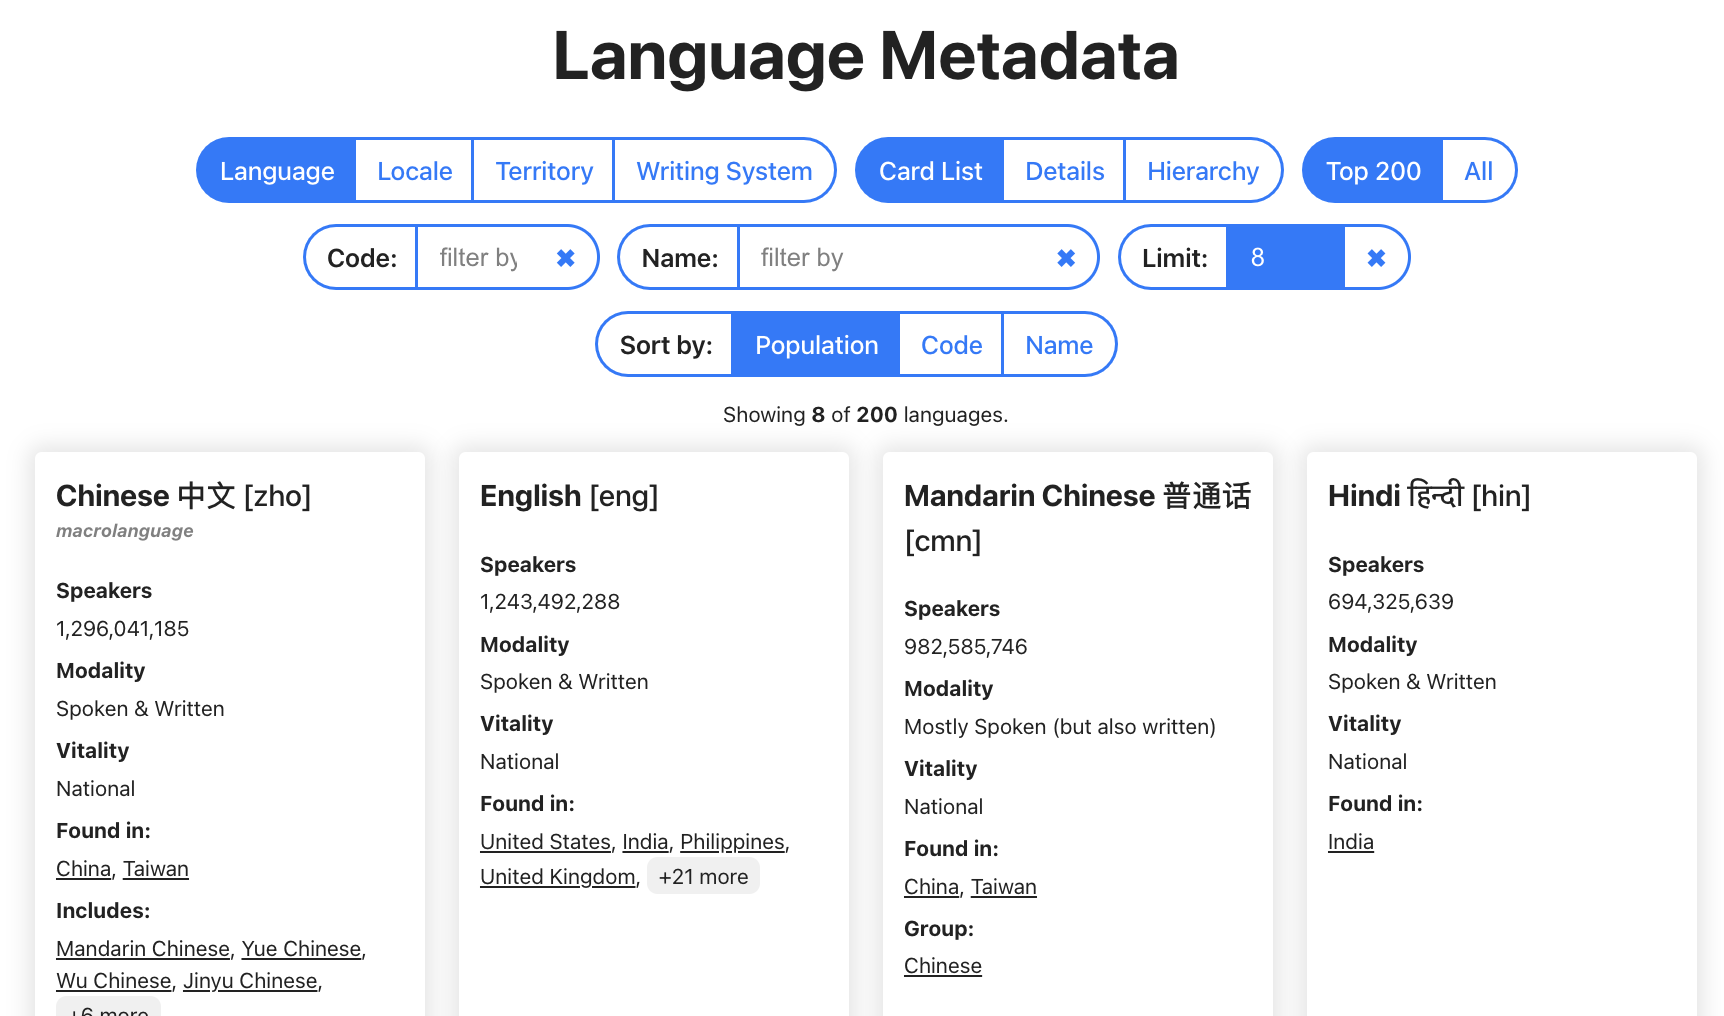
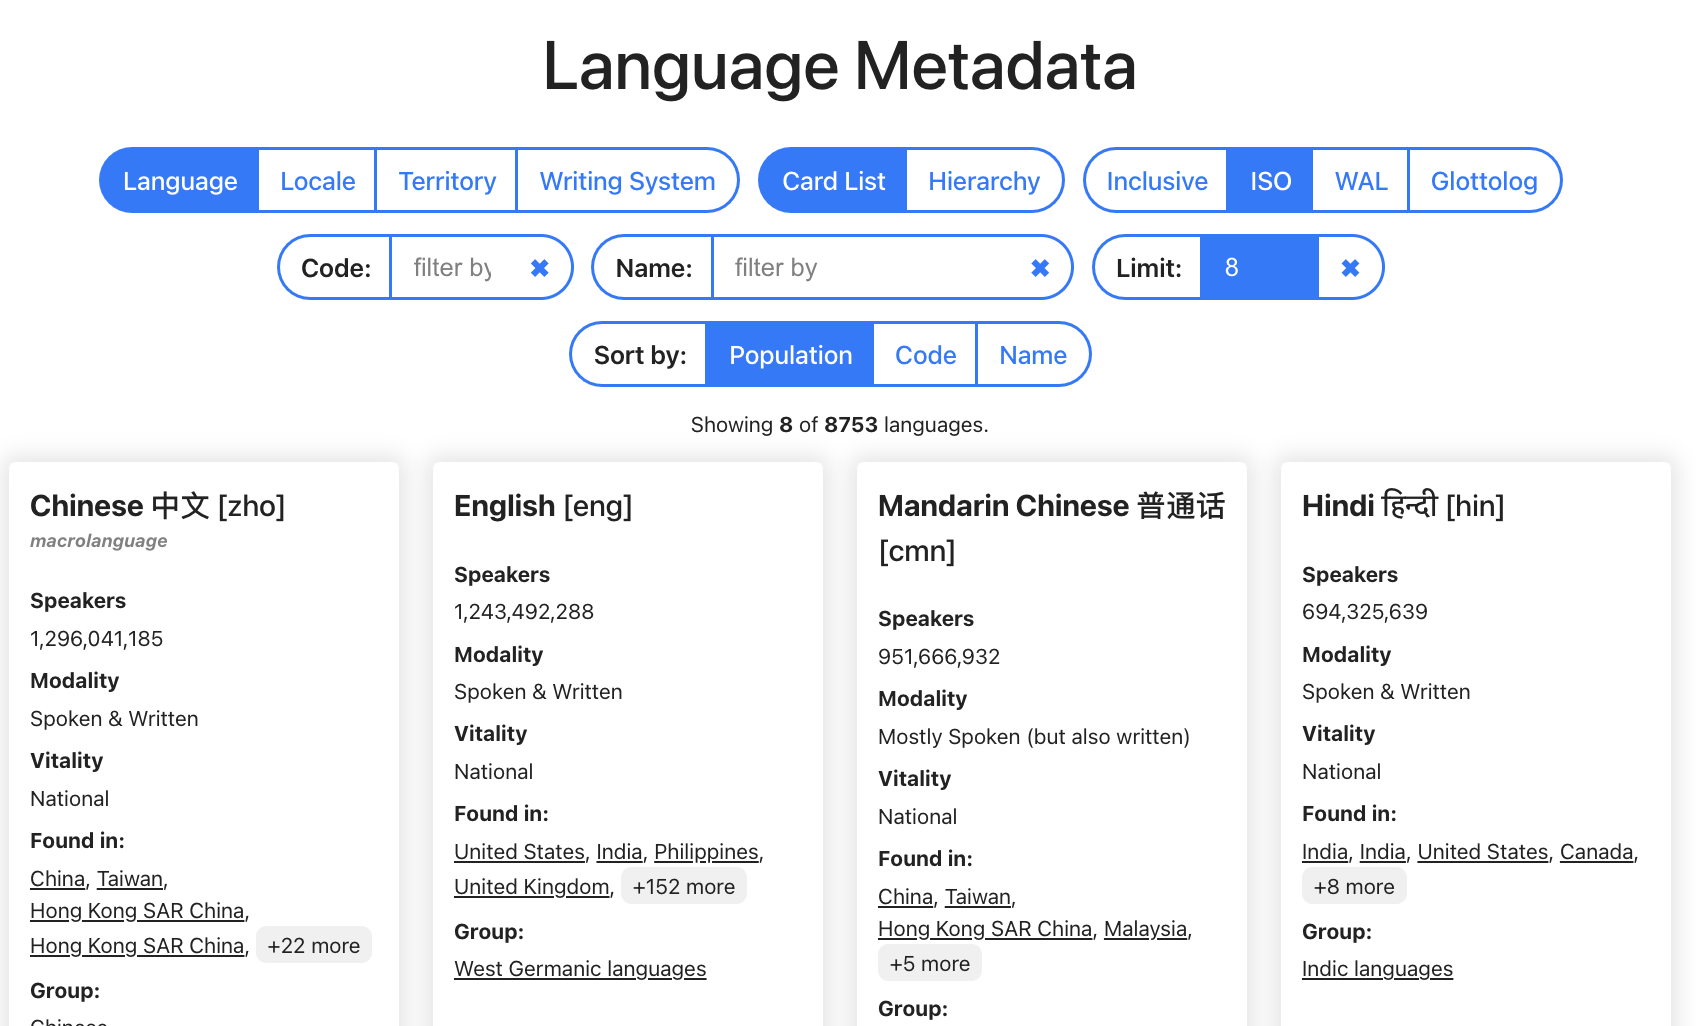
Remove data subset control, add language schema control

diff --git a/src/controls/ControlsBar.tsx b/src/controls/ControlsBar.tsx
@@ -5,11 +5,11 @@ import Hoverable from '../generic/Hoverable';
 import ButtonGroupSingleChoice from './ButtonGroupSingleChoice';
 import FilterControls from './FilterControls';
 import { usePageParams } from './PageParamsContext';
-import { DataSubset, Dimension, ViewType } from './PageParamTypes';
+import { LanguageSchema, Dimension, ViewType } from './PageParamTypes';
 
 // TODO: needs debouncing on text input
 const ControlsBar: React.FC = () => {
-  const { dataSubset, viewType, dimension, updatePageParams } = usePageParams();
+  const { languageSchema, viewType, dimension, updatePageParams } = usePageParams();
 
   return (
     <div className="controlsBar">
@@ -30,11 +30,11 @@ const ControlsBar: React.FC = () => {
             selected={viewType}
           />
         </Hoverable>
-        <Hoverable hoverContent='Decide how much data is loaded. "All" will impact page performance.'>
-          <ButtonGroupSingleChoice<DataSubset>
-            options={Object.values(DataSubset)}
-            onChange={(dataSubset: DataSubset) => updatePageParams({ dataSubset })}
-            selected={dataSubset}
+        <Hoverable hoverContent="Different groups identify what a language is. Use this option to control the schema of language you want to follow.">
+          <ButtonGroupSingleChoice<LanguageSchema>
+            options={Object.values(LanguageSchema)}
+            onChange={(languageSchema: LanguageSchema) => updatePageParams({ languageSchema })}
+            selected={languageSchema}
           />
         </Hoverable>
       </div>

diff --git a/src/dataloading/DataContext.tsx b/src/dataloading/DataContext.tsx
@@ -1,6 +1,5 @@
 import React, { createContext, useState, useContext, useEffect } from 'react';
 
-import { usePageParams } from '../controls/PageParamsContext';
 import {
   BCP47LocaleCode,
   ISO6391LanguageCode,
@@ -54,7 +53,6 @@ const DataContext = createContext<DataContextType | undefined>({
 export const DataProvider: React.FC<{
   children: React.ReactNode;
 }> = ({ children }) => {
-  const { dataSubset } = usePageParams();
   const [languagesByCode, setLanguagesByCode] = useState<Record<LanguageCode, LanguageData>>({});
   const [languagesByISO6391Code, setLanguagesByISO6391Code] = useState<
     Record<ISO6391LanguageCode, LanguageData>
@@ -76,13 +74,13 @@ export const DataProvider: React.FC<{
       locales,
       writingSystems,
     ] = await Promise.all([
-      loadLanguages(dataSubset),
+      loadLanguages(),
       loadISOLanguages(),
       loadISOMacrolanguages(),
       loadISOLanguageFamilies(),
       loadISOFamiliesToLanguages(),
       loadTerritories(),
-      loadLocales(dataSubset),
+      loadLocales(),
       loadWritingSystems(),
     ]);
     if (langs == null || territories == null || locales == null || writingSystems == null) {
@@ -108,7 +106,7 @@ export const DataProvider: React.FC<{
 
   useEffect(() => {
     loadData();
-  }, [dataSubset]); // this is called only 1) after page load and 2) when the dataSubset changes
+  }, []); // this is called once after page load
 
   return (
     <DataContext.Provider

diff --git a/src/dataloading/DataLoader.tsx b/src/dataloading/DataLoader.tsx
@@ -2,7 +2,6 @@
  * This file provides asynchronous functions to load in data
  */
 
-import { DataSubset } from '../controls/PageParamTypes';
 import {
   BCP47LocaleCode,
   LanguageCode,
@@ -21,12 +20,8 @@ import {
   parseWritingSystem,
 } from './DataParsing';
 
-export async function loadLanguages(
-  dataSubset: DataSubset,
-): Promise<Record<LanguageCode, LanguageData> | void> {
-  const filename = dataSubset === DataSubset.Top200 ? 'languages200.tsv' : 'languages.tsv';
-
-  return await fetch(filename)
+export async function loadLanguages(): Promise<Record<LanguageCode, LanguageData> | void> {
+  return await fetch('languages.tsv')
     .then((res) => res.text())
     .then((text) => {
       const languages = text.split('\n').slice(1).map(parseLanguageLine);
@@ -54,12 +49,8 @@ export async function loadTerritories(): Promise<Record<TerritoryCode, Territory
     .catch((err) => console.error('Error loading TSV:', err));
 }
 
-export async function loadLocales(
-  dataSubset: DataSubset,
-): Promise<Record<BCP47LocaleCode, LocaleData> | void> {
-  const filename = dataSubset === DataSubset.Top200 ? 'locales200.tsv' : 'locales.tsv';
-
-  return await fetch(filename)
+export async function loadLocales(): Promise<Record<BCP47LocaleCode, LocaleData> | void> {
+  return await fetch('locales.tsv')
     .then((res) => res.text())
     .then((text) => {
       return text

diff --git a/src/controls/PageParamsContext.tsx b/src/controls/PageParamsContext.tsx
@@ -2,8 +2,8 @@ import React, { createContext, useContext, useMemo } from 'react';
 import { useSearchParams } from 'react-router-dom';
 
 import {
-  DataSubset,
   Dimension,
+  LanguageSchema,
   PageParams,
   PageParamsOptional,
   SortBy,
@@ -45,7 +45,7 @@ export const PageParamsProvider: React.FC<{ children: React.ReactNode }> = ({ ch
   const providerValue: PageParamsContextState = useMemo(
     () => ({
       codeFilter: getParam('codeFilter', ''),
-      dataSubset: getParam('dataSubset', DataSubset.Top200) as DataSubset,
+      languageSchema: getParam('languageSchema', LanguageSchema.ISO) as LanguageSchema,
       dimension: getParam('dimension', Dimension.Language) as Dimension,
       limit: parseInt(getParam('limit', '8')),
       nameFilter: getParam('nameFilter', ''),

diff --git a/src/controls/PageParamTypes.tsx b/src/controls/PageParamTypes.tsx
@@ -13,9 +13,11 @@ export enum ViewType {
   //   Table = 'table',
 }
 
-export enum DataSubset {
-  Top200 = 'Top 200',
-  All = 'All',
+export enum LanguageSchema {
+  Inclusive = 'Inclusive',
+  ISO = 'ISO',
+  WAL = 'WAL',
+  Glottolog = 'Glottolog',
 }
 
 export enum SortBy {
@@ -26,7 +28,7 @@ export enum SortBy {
 
 export type PageParams = {
   codeFilter: string;
-  dataSubset: DataSubset;
+  languageSchema: LanguageSchema;
   dimension: Dimension;
   limit: number; // < 1 means show all
   modalObject: string | null;
@@ -37,7 +39,7 @@ export type PageParams = {
 
 export type PageParamsOptional = {
   codeFilter?: string;
-  dataSubset?: DataSubset;
+  languageSchema?: LanguageSchema;
   dimension?: Dimension;
   limit?: number;
   modalObject?: string | null;

diff --git a/src/views/VisibleItemsMeter.tsx b/src/views/VisibleItemsMeter.tsx
@@ -1,8 +1,5 @@
 import React from 'react';
 
-import { usePageParams } from '../controls/PageParamsContext';
-import { DataSubset } from '../controls/PageParamTypes';
-
 interface Props {
   nShown: number;
   nFiltered: number;
@@ -11,14 +8,12 @@ interface Props {
 }
 
 const VisibleItemsMeter: React.FC<Props> = ({ nShown, nFiltered, nOverall, nounPlural }) => {
-  const { dataSubset } = usePageParams();
   if (nOverall === 0) {
     return 'Data is still loading. If you are waiting awhile there could be an error in the data.';
   }
   const totalItemsLoaded = (
     <>
       {nOverall > nFiltered && <> There are {<strong>{nOverall}</strong>} total</>} {nounPlural}
-      {dataSubset === DataSubset.Top200 && ' loaded'}.
     </>
   );
 

diff --git a/README.md b/README.md
@@ -51,7 +51,7 @@ Here's a list of planned functionality. Completed functions are checked off.
   - [ ] Export
 - [ ] Manage data sources
   - [x] Load different subsets of data
-  - [ ] Show results based on different definitions of what a language is
+  - [ ] Show results based on different definitions of what a language is - _in progress_
     - [ ] ISO Languages, Macrolanguages, and Language Families
     - [ ] Glottolog Languoids
     - [ ] Inclusive
